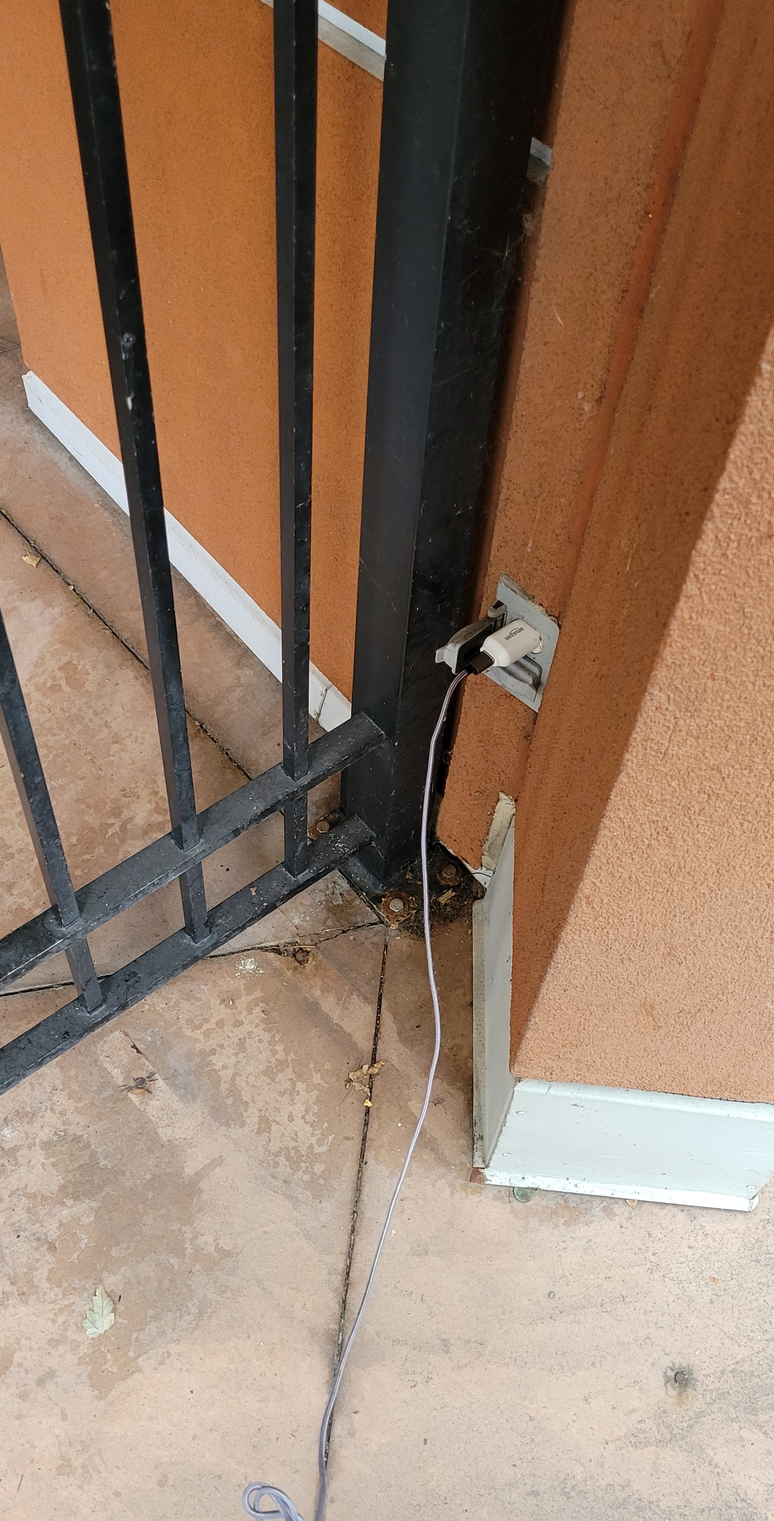
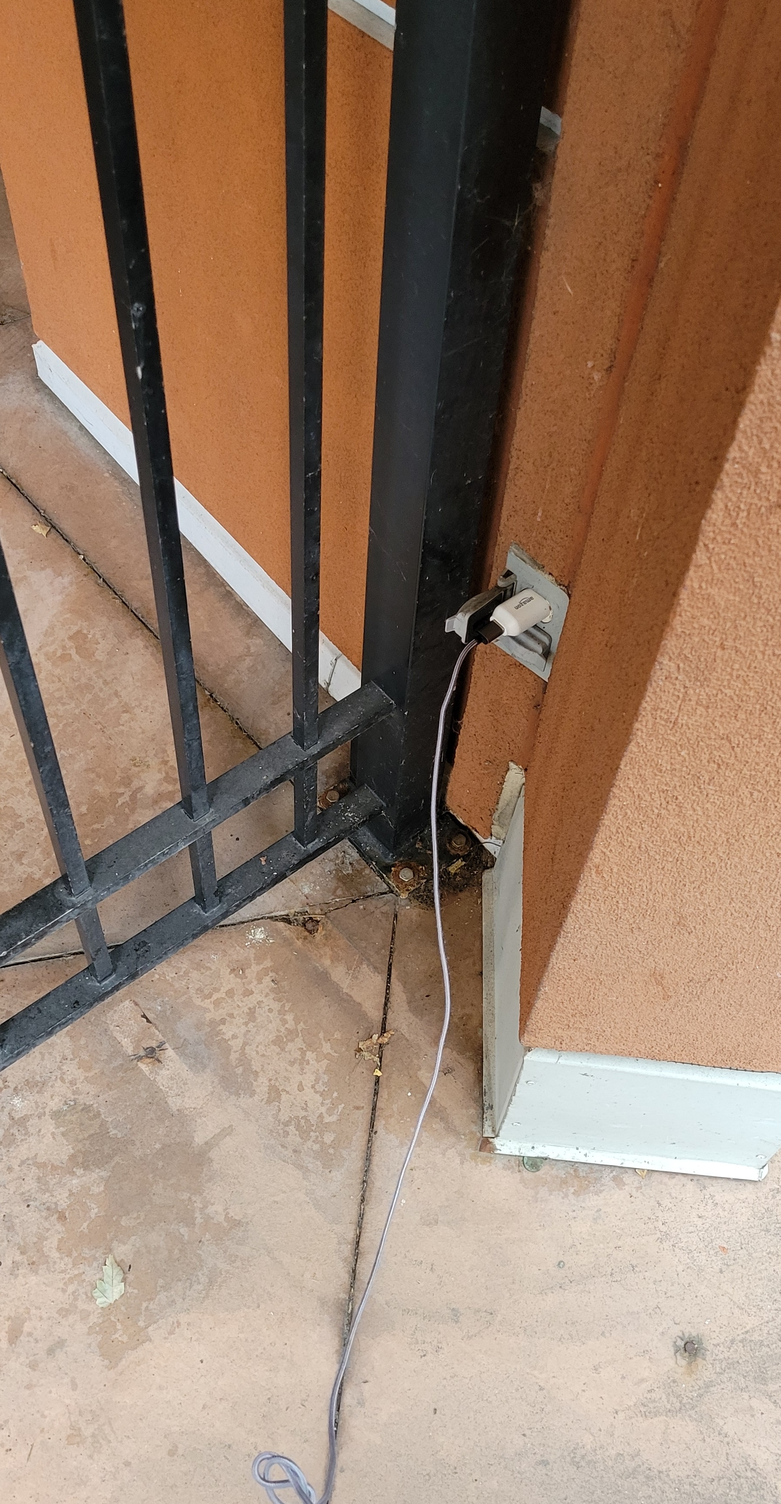
added sitation

diff --git a/tactics.html b/tactics.html
@@ -54,14 +54,14 @@
  </div>
 
 
-<!--gleaning urban shorelines-->
+<!--GLEANING URBAN SHORELINES-->
  <div>
   <a name="gleaning-urban-shorelines" id="gleaning-urban-shorelines"></a> 
   <p><span style="font-weight:700">GLEANING URBAN SHORELINES</span><br>
     Vancouver is a settler colonial city occupying the unceded and ancestral territory of the xʷməθkʷəy̓əm (Musqueam), Sḵwx̱wú7mesh (Squamish), and səlilwətaɬ (Tsleil-Waututh) Nations. Urban development since the 1800s has reshaped the contours of land and water, filling in much of the local tidal flat and paving over many streams. Today, streets and alleyways extend like asphalt riverbeds along whose shorelines the excess of human consumption accumulates for disposal. Discarded matters evince spectacular abundances. Crows feast on overflowing human remains. Garbage is composition awaiting compaction.
   </p>
 
-      <!--alleyway garbage sounds and walking sitations-->
+      <!--site 1: alleyway garbage sounds and walking sitations-->
       <div class="vignette" style="width:50%;  margin:auto">
         <img src="./media/field/dumpsters_20231225.jpg" style="width:100%">
         <b>Site 1</b>In the above image, garbage overflows from two green commercial dumpsters. Spilling from torn bags, various containers and food waste litter the asphalt as crows perch amid the detritus. The photograph was captured by the author in alleyway in the West End taken on a Christmas Day walk, 2023. The below audio recordings below were taken in May 2022.
@@ -79,7 +79,7 @@
         Not only municipal waste defies containment. Residential curbs mark porous boundaries of property where belonging is in flux. Operating on urban denizens’ tacit knowledge of the city, matters deemed no longer fit for manufactured purpose are offered up as open-ended invitations for recirculation by passersby. Half my wardrobe I gleaned from cardboard boxes left on the sidewalk or by back-alley dumpsters, pinned to trees or tossed over fences. A fleece vest, vintage dress, quarter zip, blue jeans, sweatpants, and sneakers to name but a few. Items found whilst walking the city now collaborators in my everyday research and writing practices include a coffee  mug, backpack, stapler, desk, and Epson WorkForce Pro 4740 printer found with a note reading: I STILL WORK.
        </p>
 
-       <!--gleaned things-->
+       <!--site 2: gleaned things-->
        <div class="vignette" style="width:50%;  margin:auto">
       sitation deck here</div>
        
@@ -87,7 +87,7 @@
         The decadence of disposal is ripe with contamination. Graffiti transforms commercial dumpsters, newspaper boxes, utility boxes, street signs, and the sides of vacant storefronts into sites of discordant discourses. I follow their drift across the city (see <a href="./rhythmanalysis.html" target="_blank">negative-spaces/rhythmanalysis.html</a>). On a walk to the grocers last month as I was contemplating how to narrate this page when I encountered something new: An Economy Is A Soul/Spirit/Love.
       </p>
 
-      <!--an economy-->
+      <!--site 3: an economy-->
       <div class="vignette" style="width:50%;  margin:auto">
         <img src="./media/field/an-economy.jpg" style="width:100%">
         <br><b>Site 3</b>
@@ -97,26 +97,48 @@
         Yesterday I passed this site again. The graffiti proposing an economy as a soul/spirit/love had been circled and written over with a black and orange crayon, rendering illegible all but love. 
        </p>
 
-         <!--an economy 2-->
+         <!--site 4: an economy scribbled over-->
       <div class="vignette" style="width:50%;  margin:auto">
         <img src="./media/field/an-economy_20240319.jpg" style="width:100%">
         <br><b>Site 4</b>
        </div>
 
       <p>
-        Urban shorelines prove sites of leaky disposal where use and value are rendered differently intelligible by human and more-than-human scavengers. Like the crows, I poach matter and meaning from what I find around, performing bricolage with the physical-conceptual field of my encounter. (Sometimes I don't take anything more than what I need in the moment: a chair to sit in while on a call; an electrical socket to plug my phone in while I talk.) How do unruly material and semiotic flows interfere with regulated forms of exchange from within the dominate economic system? With this page, I describe my tactics of practice and how they interfere with hegemonic economies of knowledge production in ways that matter. My reference to hegemonic economies of knowledge production is specific to the formal requirements of institutional publishing which render research outputs legible as objects of knowledge, and, the boundary making practices by which field and researcher are made differentially articulate. In <a href="./rendering.html" target="_blank">negative-spaces/rendering.html, </a>I further elaborate how both my interference practice and the effects of my interference practice at once articulate and refigure such boundaries.
+        Urban shorelines prove sites of leaky disposal where use and value are rendered differently intelligible by human and more-than-human scavengers. Like the crows, I poach matter and meaning from what I find around, performing bricolage with the physical-conceptual field of my encounter. Sometimes I don't take anything more than what I need in the moment: a chair to sit in while on a call; an electrical socket to plug my phone in while I talk. 
+        </p>
+
+          <!--site 5: granville clover outlet -->
+    <div class="vignette" style="width:54%; margin:auto; overflow:scroll">
+      <div class="row">
+        <div class="column3">
+          <img src="./media/field/granville-clover-outlet_20220923.jpg" style="width:95%"><br>
+          <span style="font-size:11pt">September, 2022</span>
+        </div>
+        <div class="column3">
+          <img src="./media/field/granville-clover-outlet_20240407.jpg" style="width:82%"><br>
+          <span style="font-size:11pt">April, 2024</span>
+        </div>
+      </div>
+      <br>
+      <span style="font-size:11pt"><b>Site 5</b> On a walk the other day I went to show an interlocutor the spot where I plugged my phone in during a therapy call, only to find it had been covered over. The fence between the apartment building's entryway and the gated area you pass into after unlocking the door was also reinforced with metal meshwork. So much for poaching power here. </span>
+      <br>
+    </div>
+      
+        <br>
+       <p>
+        How do unruly material and semiotic flows interfere with regulated forms of exchange from within the dominate economic system? With this page, I describe my tactics of practice and how they interfere with hegemonic economies of knowledge production in ways that matter. My reference to hegemonic economies of knowledge production is specific to the formal requirements of institutional publishing which render research outputs legible as objects of knowledge, and, the boundary making practices by which field and researcher are made differentially articulate. In <a href="./rendering.html" target="_blank">negative-spaces/rendering.html, </a>I further elaborate how both my interference practice and the effects of my interference practice at once articulate and refigure such boundaries.
       </p>
       <br>  
  </div>
 
- <!--take and make do-->
+ <!--TAKE AND MAKE DO-->
  <div>
   <a name="take-and-make" id="take-and-make"></a> 
-  <p><span style="font-weight:701">TAKE AND MAKE DO: GLEANING AND SPATIAL BRICOLAGE</span><br>
+  <p><span style="font-weight:701">TAKE AND MAKE DO</span><br>
     Write Murris and Bozalek (2019): "A diffractive methodology contests the notion that a researcher can be taught tools or techniques about a world which is independent of and at an ontological distance from the researcher." As discussed in <a href="./interference.html" target="_blank">negative-spaces/interference.html, </a>field and researcher (including instruments of investigation) are provisional configurations whose intelligibility within and as part of specific phenomena is the effect of iterative 'intra-actions' (Barad 2007). In other words, 'agential separability' (Barad 2007) is the condition of exteriority-within-phenomena whereby field and researcher (including instruments of investigation) become differentially articulated. 'The field' itself might be better understood as a phenomenon wherein which field<i>site</i> becomes intelligible as a bounded area/place/extent/scope in dynamic relation to the framing of a researcher and their instruments of investigation. For example, by site-ing the graffiti of an economy with my phone's camera, I cropped all geographic context out of sight. By embedding the image here as reference I privilege the visual, the transmission of meaning made possible by numerous technologies and operations entirely elided from the scene. A site, as part of the world rendered provisionally determinate, is itself a phenomenon within which empirical formations like 'data' become differentially intelligible. Sites change. Data moves. Alleyways meander. A pair of sneakers moves from the fence post to the lid of a neighboring recycle bin. A metal chair with cerulean upholstery migrates down the alleyway before winding up in someone else's garage. I take an espresso maker found on the road verge back to my house where it sits under the stairs, in my room, in my car, until months later, a friend uses it and I feel like I can let it go again. Hours after I set it out it's gone.
     </p>
       
-       <!--no repeat-->
+       <!--site 6: no repeat-->
     <div class="vignette" style="width:54%; margin:auto; overflow:scroll">
       <div class="row">
         <div class="column3">
@@ -129,7 +151,7 @@
         </div>
       </div>
       <br>
-      <span style="font-size:11pt"><b>Site 5</b> No repeat is the same, yet every similarity is accompanied by difference.</span>
+      <span style="font-size:11pt"><b>Site 6</b> No repeat is the same, yet every similarity is accompanied by difference.</span>
       <br>
     </div>
       
@@ -146,9 +168,9 @@
       <br>
     </p>
 
-    <!--tote bags and tshirt-->
+    <!--site 7: tote bags and tshirt-->
     <div class="vignette" style="height:800px; width:54%; margin:auto; overflow:scroll">
-      <span style="font-size:11pt"><b>Site 6</b></span>
+      <span style="font-size:11pt"><b>Site 7</b></span>
       <div class="row">
         <div class="column3">
           <img src="./media/commonplace/bag3.jpg" style="width:93%"><br>
@@ -168,11 +190,11 @@
 
   <br>
 
-  <!--take and make sitation-->
+  <!--site 8: take and make sitation-->
   <div class="vignette" style="width:54%; margin:auto">
   <img src="./media/field/take-and-make.jpg" style="width:100%;">
   <br>
-  <span style="font-size:11pt"><b>Site 7</b> Over white paint, which presumably covers up prior graffiti, the statement TAKE AND MAKE is written in uppercase letters. I encountered this site in the alleyway beside Faculty Brewing, my favorite microbrewery in my old neighborhood.</span>
+  <span style="font-size:11pt"><b>Site 8</b> Over white paint, which presumably covers up prior graffiti, the statement TAKE AND MAKE is written in uppercase letters. I encountered this site in the alleyway beside Faculty Brewing, my favorite microbrewery in my old neighborhood.</span>
 </div>
 
 <br>
@@ -184,9 +206,9 @@
     </span>
   </p>
 
-<!--bricoleur methods me -->
+<!--site 9: bricoleur methods me -->
   <div class="vignette" style="width:54%; margin:auto">
-    <span style="font-size:11pt"><b>Site 8</b> A voice recording I took midway through my project, while still figuring out what my output might be:</span>
+    <span style="font-size:11pt"><b>Site 9</b> A voice recording I took midway through my project, while still figuring out what my output might be:</span>
     <br><br>
     <audio controls style="margin-left:23%;">
     <source src="./media/audio/bricoleur-methods.mp3" type="audio/mpeg" >
@@ -212,7 +234,7 @@
  </div>
 
 
-<!--economy-->
+<!--WRITING INTERFERENCE-->
 <div>
   <a name="economy" id="economy"></a> 
   <p><span style="font-weight:700">WRITING INTERFERENCE, WRITING ECONOMIES</span>
